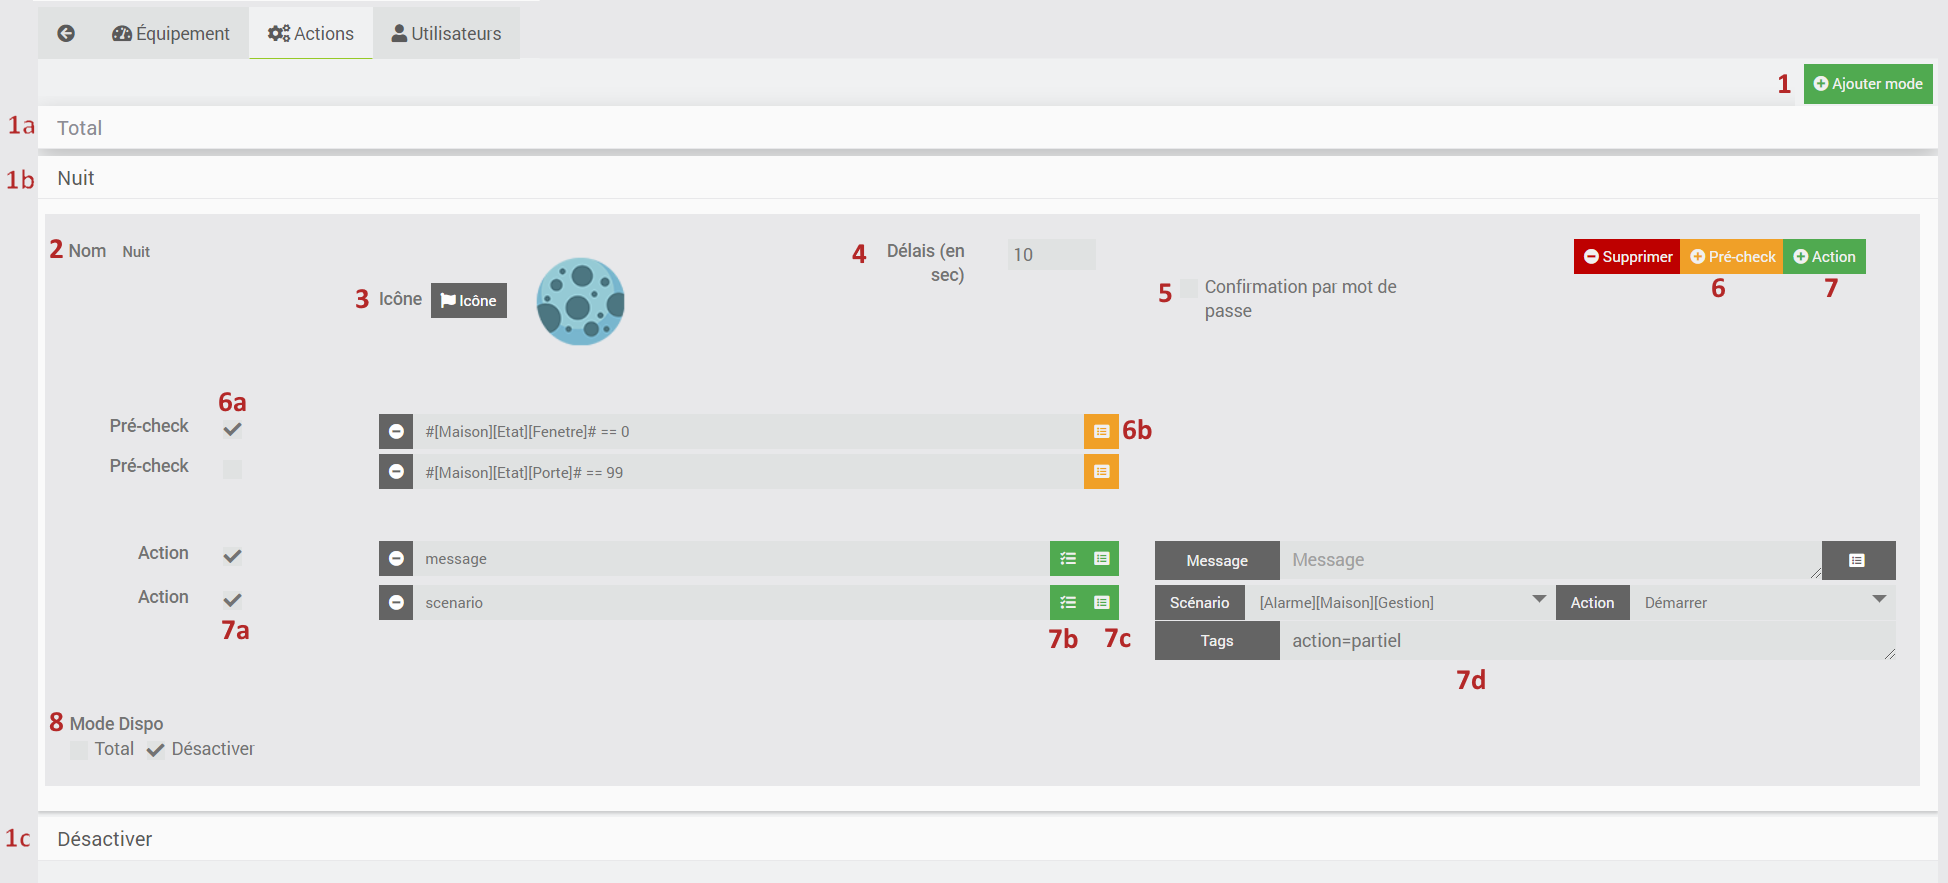
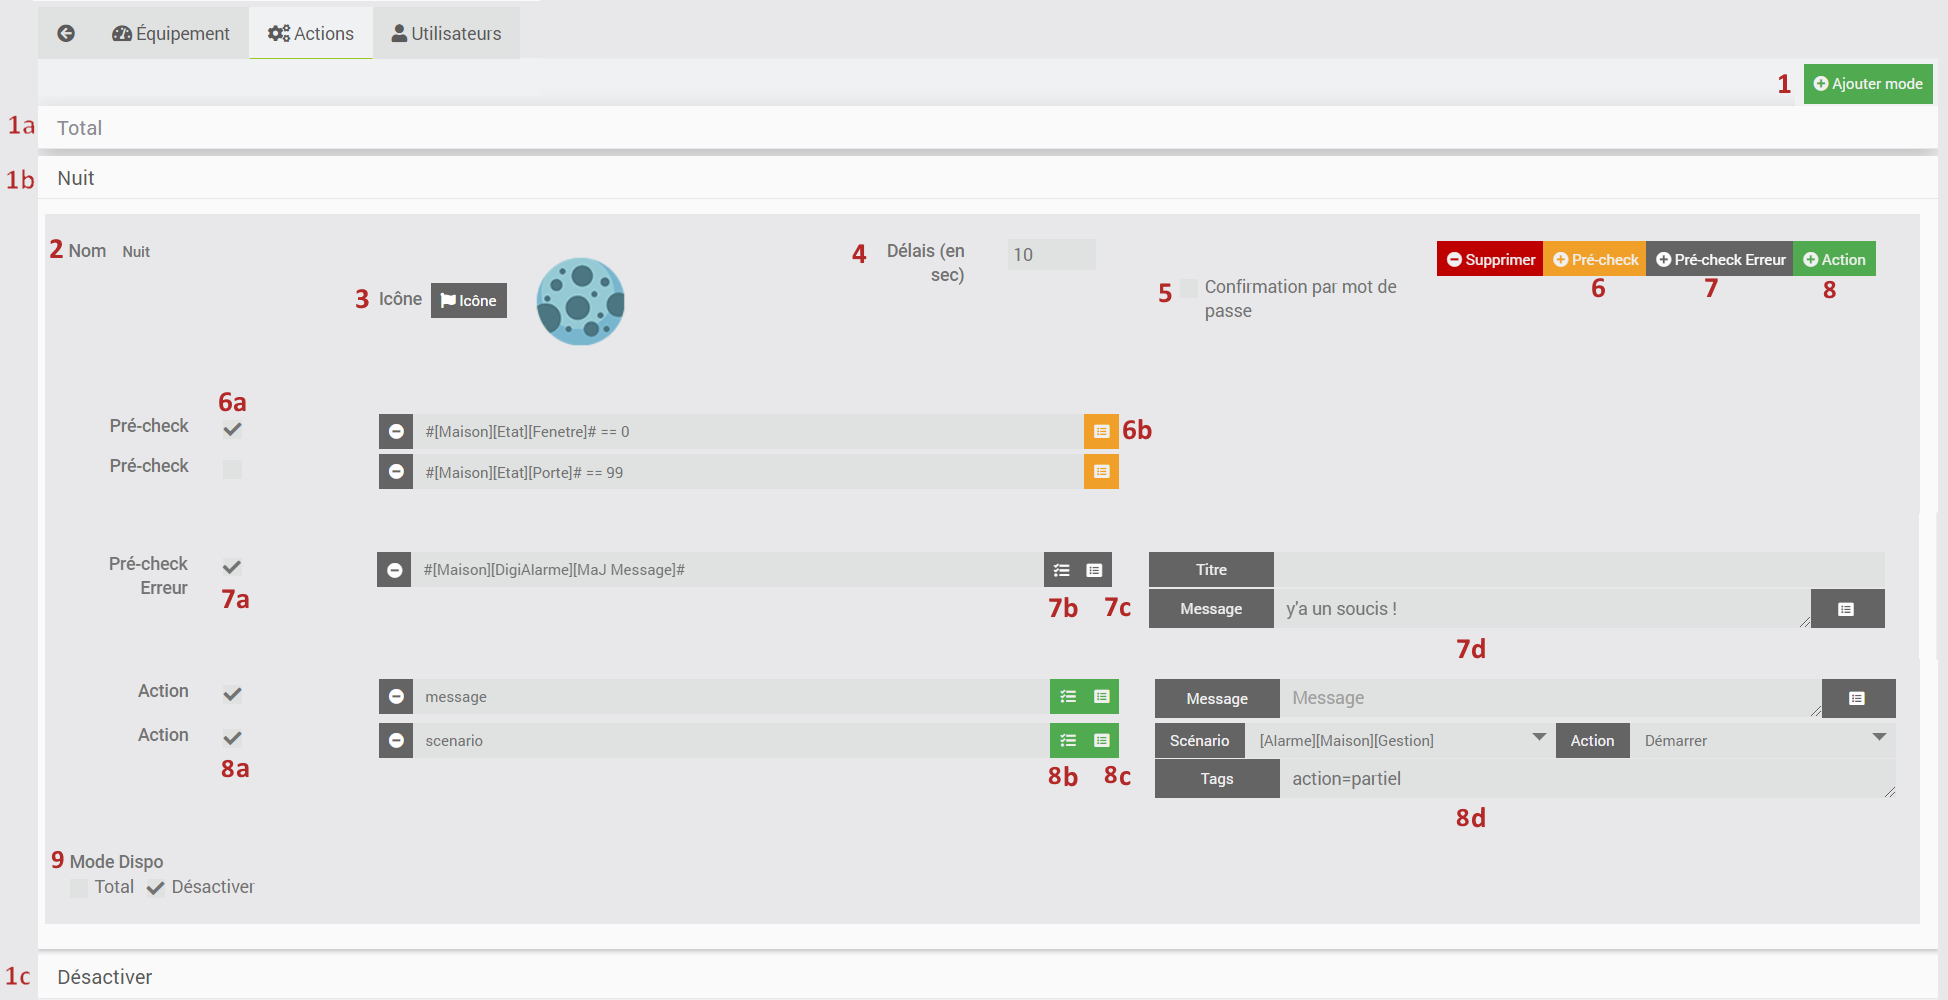
Mise à jour de la documentation

diff --git a/docs/fr_FR/index.md b/docs/fr_FR/index.md
@@ -60,12 +60,17 @@ C'est ici que vous définissez :
 6. ajoute un/des contrôle(s) à réaliser avant (l'ensemble des `Pré-check` utilisent l'opérateur 'ET')   
   6a. active/désactive le contrôle  
   6b. ouvre un pop-up pour sélectionner une commande de type `info`  
-7. ajoute une/des action(s) à réaliser pour passer dans le mode 
+7. ajoute une/des action(s) à réaliser si jamais le(s) pré-check (défins en 6) échouent   
   7a. active/désactive l'action  
   7b. permet de choisir une commande
   7c. ouvre un pop-up pour sélectionner une commande de type `action`   
   7d. défini les options de la commande   
-8. défini le(s) mode(s) accessible(s) depuis le mode en cours 
+8. ajoute une/des action(s) à réaliser pour passer dans le mode 
+  8a. active/désactive l'action  
+  8b. permet de choisir une commande
+  8c. ouvre un pop-up pour sélectionner une commande de type `action`   
+  8d. défini les options de la commande   
+9. défini le(s) mode(s) accessible(s) depuis le mode en cours 
   <br/>(pour une alarme par exemple : depuis le mode 'Désactiver' on peut activer les modes 'Partiel' ou 'Total' ; par contre depuis le mode 'Total' on ne peut aller que vers 'Désactiver')
 
 <br/>

diff --git a/docs/fr_FR/changelog.md b/docs/fr_FR/changelog.md
@@ -1,8 +1,25 @@
-# Changelog plugin template
+# Changelog plugin DigiAction
 
 >**IMPORTANT**
 >
 >Pour rappel s'il n'y a pas d'information sur la mise à jour, c'est que celle-ci concerne uniquement de la mise à jour de documentation, de traduction ou de texte.
+
+# 25/02/2021
+
+Nouveautés :
+- si un timer est défini :
+  - le code utilisateur saisie est d'abord vérifié (inutile d'attendre la fin du timer pour savoir que le code n'est pas bon !)
+  - les pré-check sont réalisés une première fois avant de lancer le timer
+- ajout de la configuration "pré-check erreur" : ensemble des actions à réaliser si les contrôles échouent
+
+Fixes : 
+- Retouches CSS :
+  - Adaptation de la taille du texte au bouton (surtout en cas de texte long)
+  - Alignement des boutons (mode) « texte » et des boutons « images »
+  - Alignement du compte à rebours et bouton « Annuler »
+- En cas d’erreur de code : on reste sur le clavier plutôt que de revenir au menu
+- En cas d’erreur de code successif, le message d'erreur « Code inconnu » est réaffiché  
+
 
 # 19/02/2021
 

diff --git a/docs/fr_FR/todo.md b/docs/fr_FR/todo.md
@@ -4,13 +4,13 @@
 * widget définir taille par défaut
 * mot de passe : check caractere avant d'enregistrer
 * ouvrir le digicode dans une pop-up
-* verfiAndAction : (si timer) d'abord verifier le code => inutile d'attendre la fin du timer pour savoir que le code n'est pas bon
-* revoir le placement du bouton 'annuler' sur le panel timer
 * revoir les logs : mettre bon niveau + en français
 
 ### param supplémentaire
 -------
 * ajouter une option pour que les messages soient permanent
+* Permettre à l’utilisateur de régler la taille des boutons images
+* (Si un seul mode est disponible à la sélection et qu’il est protégé par mot de passe prévoir en option d’afficher automatiquement le clavier)
 
 ### questions
 -------
